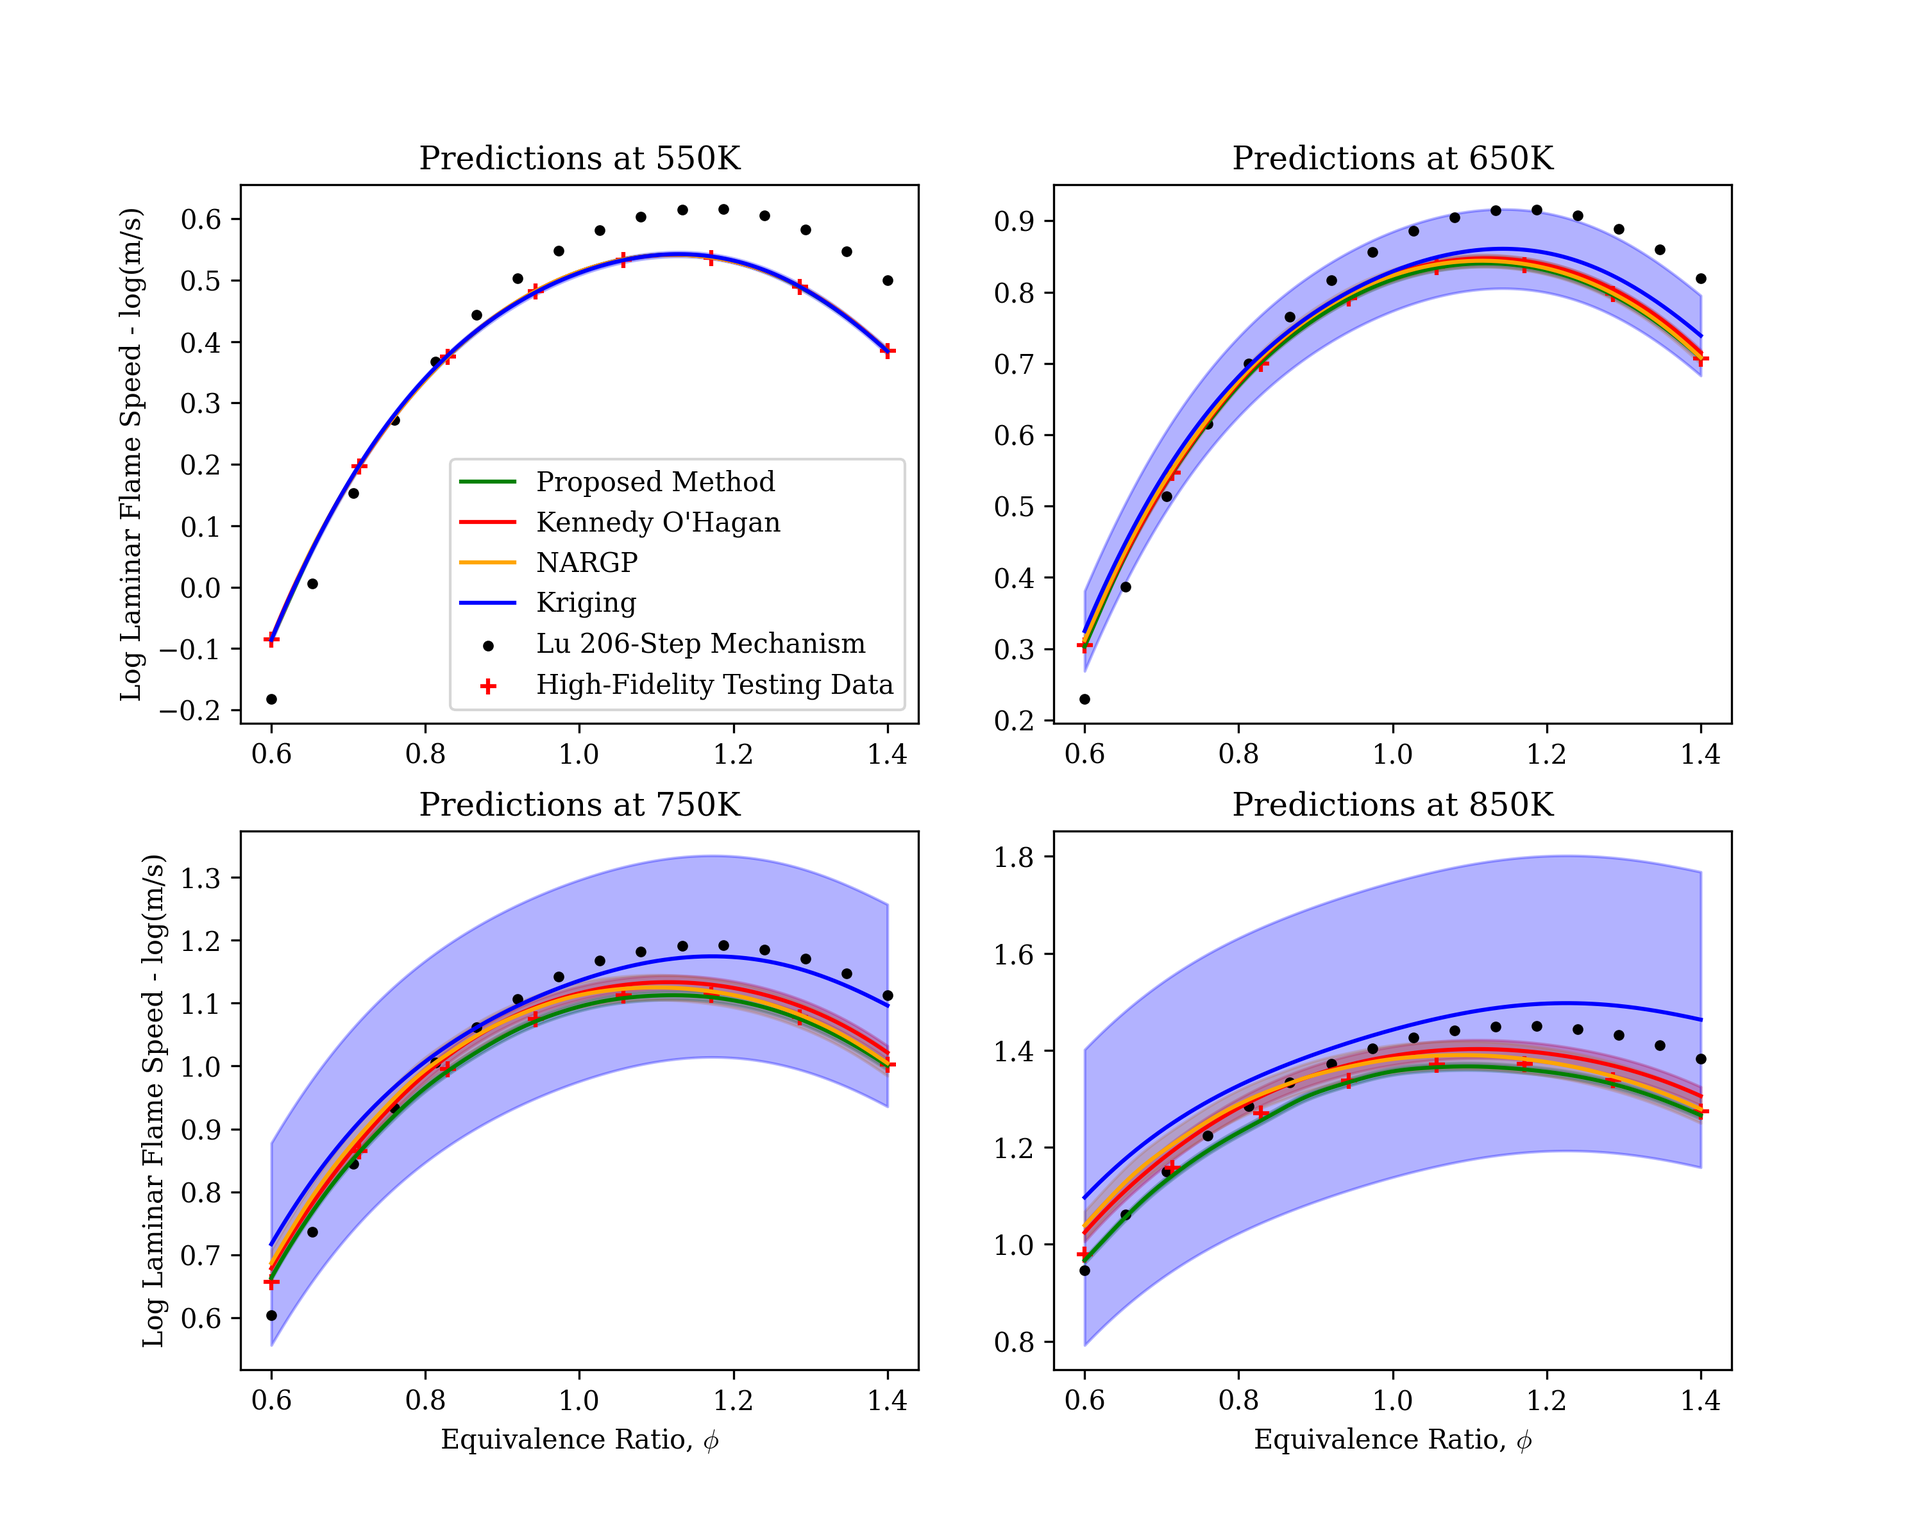
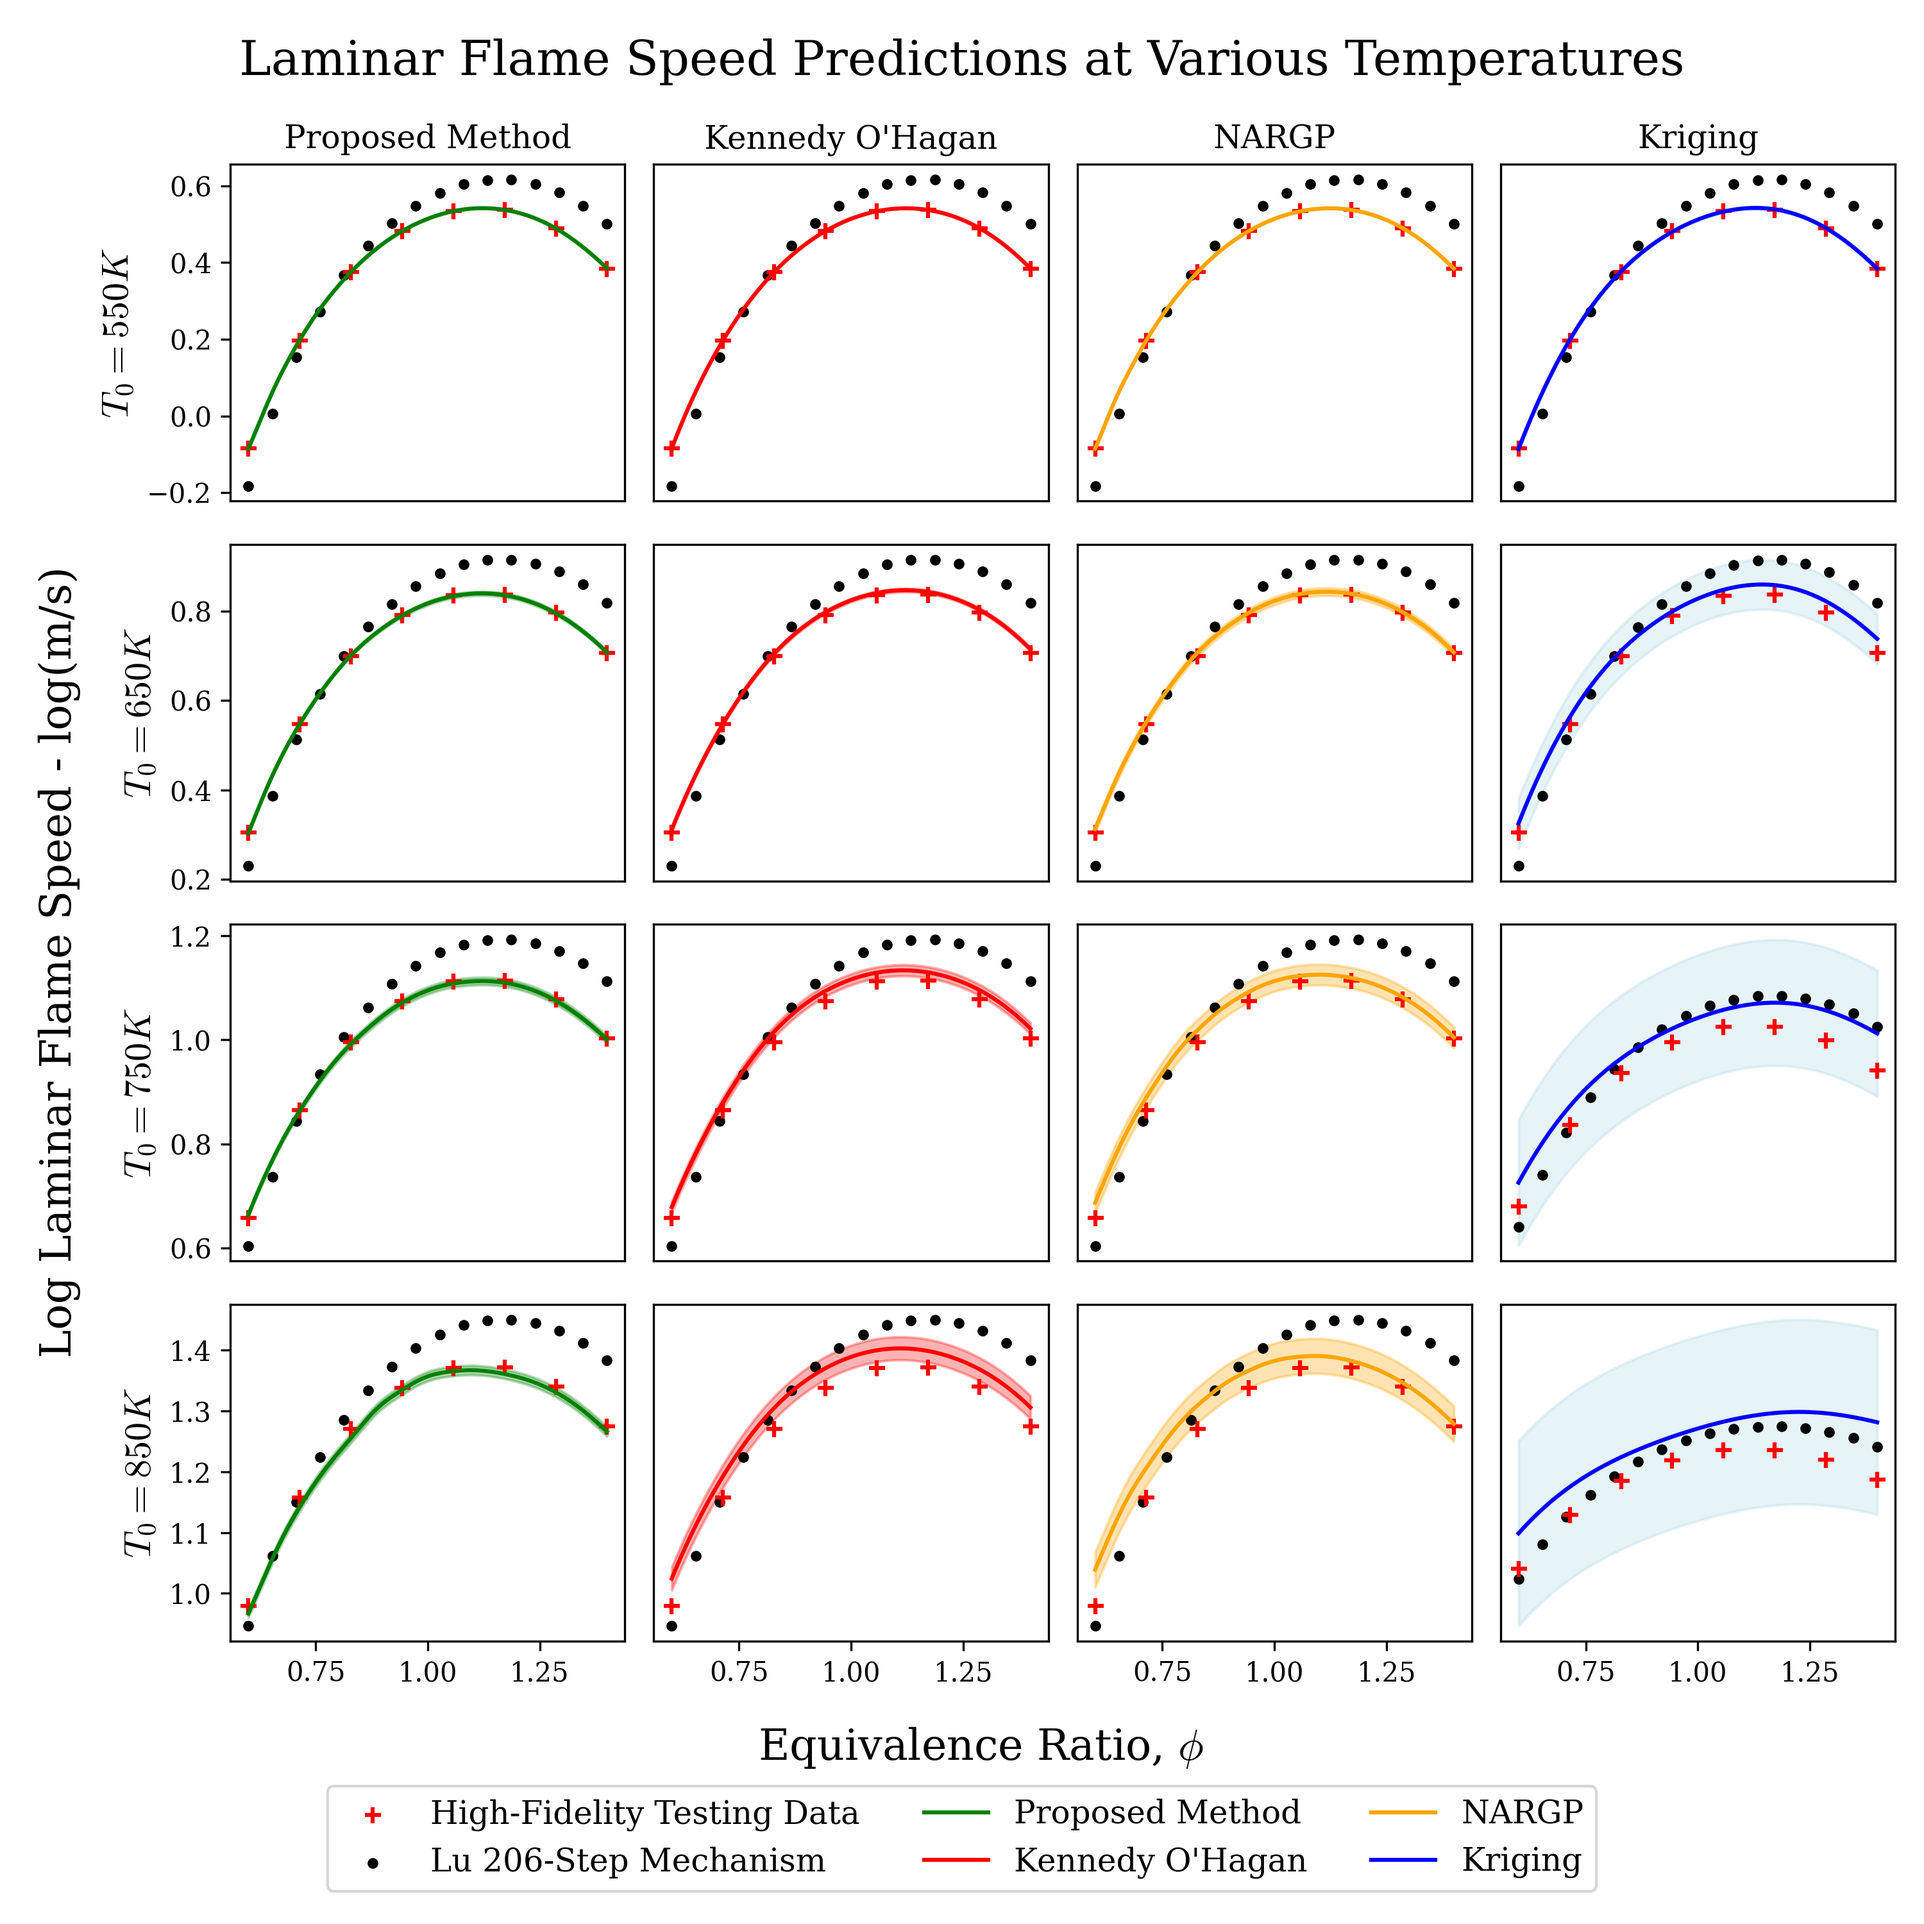
Changing Laminar Flame Speed Plot

diff --git a/LaminarFlameSpeed/plotter.py b/LaminarFlameSpeed/plotter.py
@@ -25,8 +25,8 @@ if __name__ == "__main__":
     with open("models/kr.pkl", "rb") as infile:
         kr = pickle.load(infile)   
     # Setting up the plot parameters 
-    plt.figure(figsize=(10,8),dpi = 300)
-    plt.subplot(2,2,1)
+    fig, axs = plt.subplots(4,4,figsize=(10,10),dpi = 300)
+    # plt.subplot(4,4,1)
 
     # Iterating through the test temps 
     test_temps = [550, 650, 750, 850]
@@ -111,38 +111,91 @@ if __name__ == "__main__":
         kr_conf = 1.96 * np.sqrt(kr_cov)
 
         # Plotting the data 
-        plt.subplot(2,2,plot_num+1)
+        ax = plt.subplot(4,4,4*plot_num+1)
         # Plotting the Hyperkriging predictions with uncertainty estimates
         plt.plot(scaler.inverse_transform(Xtest)[:,0], hk_mean, color = 'green', label = 'Proposed Method')
         plt.fill_between(scaler.inverse_transform(Xtest)[:,0], hk_mean-hk_conf, hk_mean + hk_conf, color = 'green', alpha = 0.3)
-
-        # Plotting the AR1 predictions with uncertainty estimates
-        plt.plot(scaler.inverse_transform(Xtest)[:,0], koh_mean, color = 'red', label = 'Kennedy O\'Hagan')
-        plt.fill_between(scaler.inverse_transform(Xtest)[:,0], koh_mean-koh_conf, koh_mean + koh_conf, color = 'red', alpha = 0.3)
-
-        # Plotting the NARGP predictions with uncertainty estimates
-        plt.plot(scaler.inverse_transform(Xtest)[:,0], nargp_mean, color = 'orange', label = 'NARGP')
-        plt.fill_between(scaler.inverse_transform(Xtest)[:,0], nargp_mean-nargp_conf, nargp_mean + nargp_conf, color = 'orange', alpha = 0.3)
-
-        # Plotting the NARGP predictions with uncertainty estimates
-        plt.plot(scaler.inverse_transform(Xtest)[:,0], kr_mean, color = 'blue', label = 'Kriging')
-        plt.fill_between(scaler.inverse_transform(Xtest)[:,0], kr_mean-kr_conf, kr_mean + kr_conf, color = 'blue', alpha = 0.3)
-
         # Plotting the Fidelity-3 training data for comparison 
         inds = (scaler.inverse_transform(data_dict[3]['X'])[:,1] == test_temp) 
         Xsim, Ysim = data_dict[3]['X'][inds,:], data_dict[3]['Y'][inds]
         plt.scatter(scaler.inverse_transform(Xsim)[:,0], (Ysim), marker = '.', color = 'black', label = 'Lu 206-Step Mechanism')
-
         # Plotting the unseen high-fidelity testing data 
         plt.scatter(Xtrue[:,0], Ytrue, marker = '+', color = 'red', label = "High-Fidelity Testing Data")
+        if plot_num + 1 == 1:
+            plt.title("Proposed Method")
+        plt.ylabel("$T_0=%dK$" % (test_temp), fontsize=14)
+        if plot_num + 1 < 4:
+            ax.set_xticks([])         # Removes all tick marks
+            ax.set_xlabel('')         # Removes the axis label
+
+        ax = plt.subplot(4,4,4*plot_num+2)
+        # Plotting the AR1 predictions with uncertainty estimates
+        plt.plot(scaler.inverse_transform(Xtest)[:,0], koh_mean, color = 'red', label = 'Kennedy O\'Hagan')
+        plt.fill_between(scaler.inverse_transform(Xtest)[:,0], koh_mean-koh_conf, koh_mean + koh_conf, color = 'red', alpha = 0.3)
+        # Plotting the Fidelity-3 training data for comparison 
+        inds = (scaler.inverse_transform(data_dict[3]['X'])[:,1] == test_temp) 
+        Xsim, Ysim = data_dict[3]['X'][inds,:], data_dict[3]['Y'][inds]
+        plt.scatter(scaler.inverse_transform(Xsim)[:,0], (Ysim), marker = '.', color = 'black', label = 'Lu 206-Step Mechanism')
+        # Plotting the unseen high-fidelity testing data 
+        plt.scatter(Xtrue[:,0], Ytrue, marker = '+', color = 'red', label = "High-Fidelity Testing Data")
+        if plot_num + 1 == 1:
+            plt.title("Kennedy O'Hagan")
+        if plot_num + 1 < 4:
+            ax.set_xticks([])         # Removes all tick marks
+            ax.set_xlabel('')         # Removes the axis label
+        ax.set_yticks([])         # Removes all tick marks
+        ax.set_ylabel('')         # Removes the axis label
+        
+        ax = plt.subplot(4,4,4*plot_num+3)
+        # Plotting the NARGP predictions with uncertainty estimates
+        plt.plot(scaler.inverse_transform(Xtest)[:,0], nargp_mean, color = 'orange', label = 'NARGP')
+        plt.fill_between(scaler.inverse_transform(Xtest)[:,0], nargp_mean-nargp_conf, nargp_mean + nargp_conf, color = 'orange', alpha = 0.3)
+        # Plotting the Fidelity-3 training data for comparison 
+        inds = (scaler.inverse_transform(data_dict[3]['X'])[:,1] == test_temp) 
+        Xsim, Ysim = data_dict[3]['X'][inds,:], data_dict[3]['Y'][inds]
+        plt.scatter(scaler.inverse_transform(Xsim)[:,0], (Ysim), marker = '.', color = 'black', label = 'Lu 206-Step Mechanism')
+        # Plotting the unseen high-fidelity testing data 
+        plt.scatter(Xtrue[:,0], Ytrue, marker = '+', color = 'red', label = "High-Fidelity Testing Data")
+        if plot_num + 1 == 1:
+            plt.title("NARGP")
+        if plot_num + 1 < 4:
+            ax.set_xticks([])         # Removes all tick marks
+            ax.set_xlabel('')         # Removes the axis label
+        ax.set_yticks([])         # Removes all tick marks
+        ax.set_ylabel('')         # Removes the axis label
+
+        ax = plt.subplot(4,4,4*plot_num+4)
+        # Plotting the NARGP predictions with uncertainty estimates
+        plt.plot(scaler.inverse_transform(Xtest)[:,0], kr_mean, color = 'blue', label = 'Kriging')
+        plt.fill_between(scaler.inverse_transform(Xtest)[:,0], kr_mean-kr_conf, kr_mean + kr_conf, color = 'lightblue', alpha = 0.3)
+        # Plotting the Fidelity-3 training data for comparison 
+        inds = (scaler.inverse_transform(data_dict[3]['X'])[:,1] == test_temp) 
+        Xsim, Ysim = data_dict[3]['X'][inds,:], data_dict[3]['Y'][inds]
+        plt.scatter(scaler.inverse_transform(Xsim)[:,0], (Ysim), marker = '.', color = 'black', label = 'Lu 206-Step Mechanism')
+        # Plotting the unseen high-fidelity testing data 
+        plt.scatter(Xtrue[:,0], Ytrue, marker = '+', color = 'red', label = "High-Fidelity Testing Data")
+        if plot_num + 1 == 1:
+            plt.title("Kriging")
+        if plot_num + 1 < 4:
+            ax.set_xticks([])         # Removes all tick marks
+            ax.set_xlabel('')         # Removes the axis label
+        ax.set_yticks([])         # Removes all tick marks
+        ax.set_ylabel('')         # Removes the axis label
+
+        # # Plotting the Fidelity-3 training data for comparison 
+        # inds = (scaler.inverse_transform(data_dict[3]['X'])[:,1] == test_temp) 
+        # Xsim, Ysim = data_dict[3]['X'][inds,:], data_dict[3]['Y'][inds]
+        # plt.scatter(scaler.inverse_transform(Xsim)[:,0], (Ysim), marker = '.', color = 'black', label = 'Lu 206-Step Mechanism')
+        # # Plotting the unseen high-fidelity testing data 
+        # plt.scatter(Xtrue[:,0], Ytrue, marker = '+', color = 'red', label = "High-Fidelity Testing Data")
         # Plot labeling 
-        plt.title("Predictions at %dK" % (test_temp))
-        if plot_num > 1:
-            plt.xlabel("Equivalence Ratio, $\phi$")
-        if plot_num == 0 or plot_num == 2:
-            plt.ylabel("Log Laminar Flame Speed - log(m/s)")
-        if plot_num == 0:
-            plt.legend()
+        # plt.title("Predictions at %dK" % (test_temp))
+        # if plot_num > 1:
+        #     plt.xlabel("Equivalence Ratio, $\phi$")
+        # if plot_num == 0 or plot_num == 2:
+        #     plt.ylabel("Log Laminar Flame Speed - log(m/s)")
+        # if plot_num == 0:
+        #     plt.legend()
 
         # Fitting a degree-three polynomial through the testing points so we have a more dense error metric
         features = PolynomialFeatures(degree=3)
@@ -160,6 +213,35 @@ if __name__ == "__main__":
         print("NARGP:           %.3e &  %.4f &  %.4f \\\\" % (np.sqrt(np.mean(nargp_cov + (Yhat - nargp_mean)**2)), np.corrcoef(Yhat.ravel(), nargp_mean.ravel())[0,1], -neg_mll(nargp.d[4]['model'], nargp.d[4]['model'].p)))
         print("Kriging:         %.3e &  %.4f &  %.4f \\\\" % (np.sqrt(np.mean(kr_cov + (Yhat - kr_mean)**2)), np.corrcoef(Yhat.ravel(), kr_mean.ravel())[0,1], -neg_mll(kr, kr.p)))
     
+    fig.supylabel("Log Laminar Flame Speed - log(m/s)", fontsize=16)
+    fig.suptitle("Laminar Flame Speed Predictions at Various Temperatures", fontsize=18)
+    fig.supxlabel("Equivalence Ratio, $\phi$", fontsize=16, ha='center', va = 'bottom', x=0.51, y = 0.08)
+    all_handles = []
+    all_labels = []
+    # Loop through every axis in the flattened 4x4 array
+    for ax in axs.flatten():
+        handles, labels = ax.get_legend_handles_labels()
+        all_handles.extend(handles)
+        all_labels.extend(labels)
+
+    # Clean up duplicates (optional but often useful)
+    # Use a dictionary to maintain order and uniqueness
+    unique_handles_labels = dict(zip(all_labels, all_handles))
+    final_handles = unique_handles_labels.values()
+    final_labels = unique_handles_labels.keys()
+    inds = [2,1,0,3,4,5]
+    final_handles = [list(final_handles)[i] for i in inds]
+    final_labels = [list(final_labels)[i] for i in inds]
+    fig.tight_layout(rect=[0, 0.07, 1, 0.99])
+    fig.legend(
+        final_handles, 
+        final_labels,
+        loc = 'upper center',
+        bbox_to_anchor = (0.5, 0.08),
+        ncol = 3,
+        fontsize = 12
+    )
+
     plt.savefig("results/composite.png")
 
 
@@ -182,7 +264,7 @@ if __name__ == "__main__":
     ax3d.set_xlabel('Equivalence Ratio, $\phi$')
     ax3d.set_ylabel('Temperature, $T_0$')
     ax3d.set_zlabel('LFS (m/s)', rotation='vertical')
-    ax3d.set_title('    LFS vs. Equivalence Ratio & Temperature')
+    ax3d.set_title('Laminar Flame Speed vs. \n Equivalence Ratio & Temperature')
 
     plt.subplots_adjust(wspace=0.00, hspace=0.55, right=0.95)
     box = ax3d.get_position()
@@ -194,7 +276,7 @@ if __name__ == "__main__":
     ax2.scatter(Xvis[:, 0], jnp.exp(Yvis).ravel(), c='red', marker='+', label='Testing Data')
     ax2.set_xlabel('Equivalence Ratio, $\phi$')
     ax2.set_ylabel('LFS (m/s)')
-    ax2.set_title('LFS vs. Equivalence Ratio')
+    ax2.set_title('Laminar Flame Speed vs. Equivalence Ratio')
 
     # --- 2D Marginal Plot 2 (Bottom Right: subplot 4) ---
     ax4 = fig.add_subplot(2, 2, 4)
@@ -202,7 +284,7 @@ if __name__ == "__main__":
     ax4.scatter(Xvis[:, 1], jnp.exp(Yvis).ravel(), c='red', marker='+', label='Testing Data')
     ax4.set_xlabel('Temperature, $T_0$')
     ax4.set_ylabel('LFS (m/s)')
-    ax4.set_title('LFS vs. Temperature')
+    ax4.set_title('Laminar Flame Speed vs. Temperature')
     ax4.legend(loc='upper left', fontsize=10)
 
     # plt.tight_layout()
